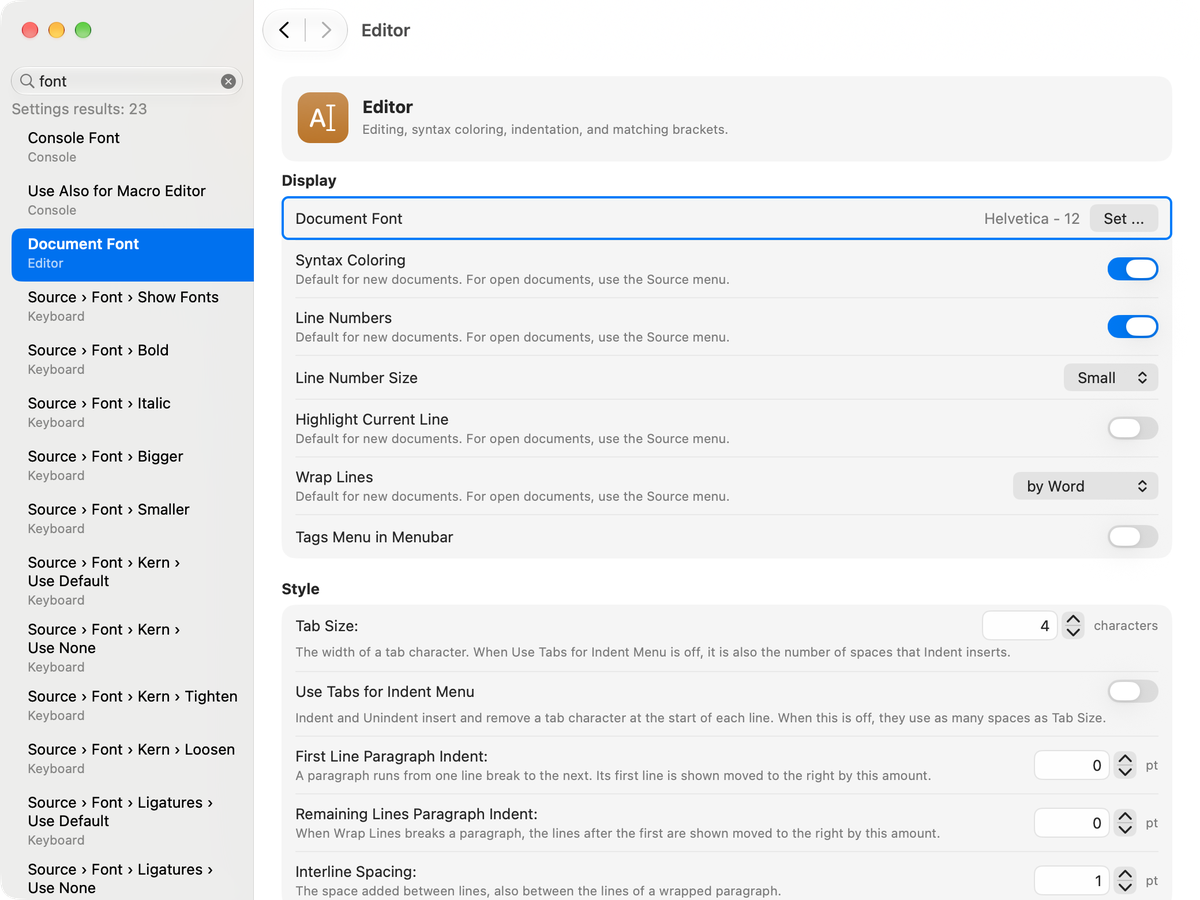
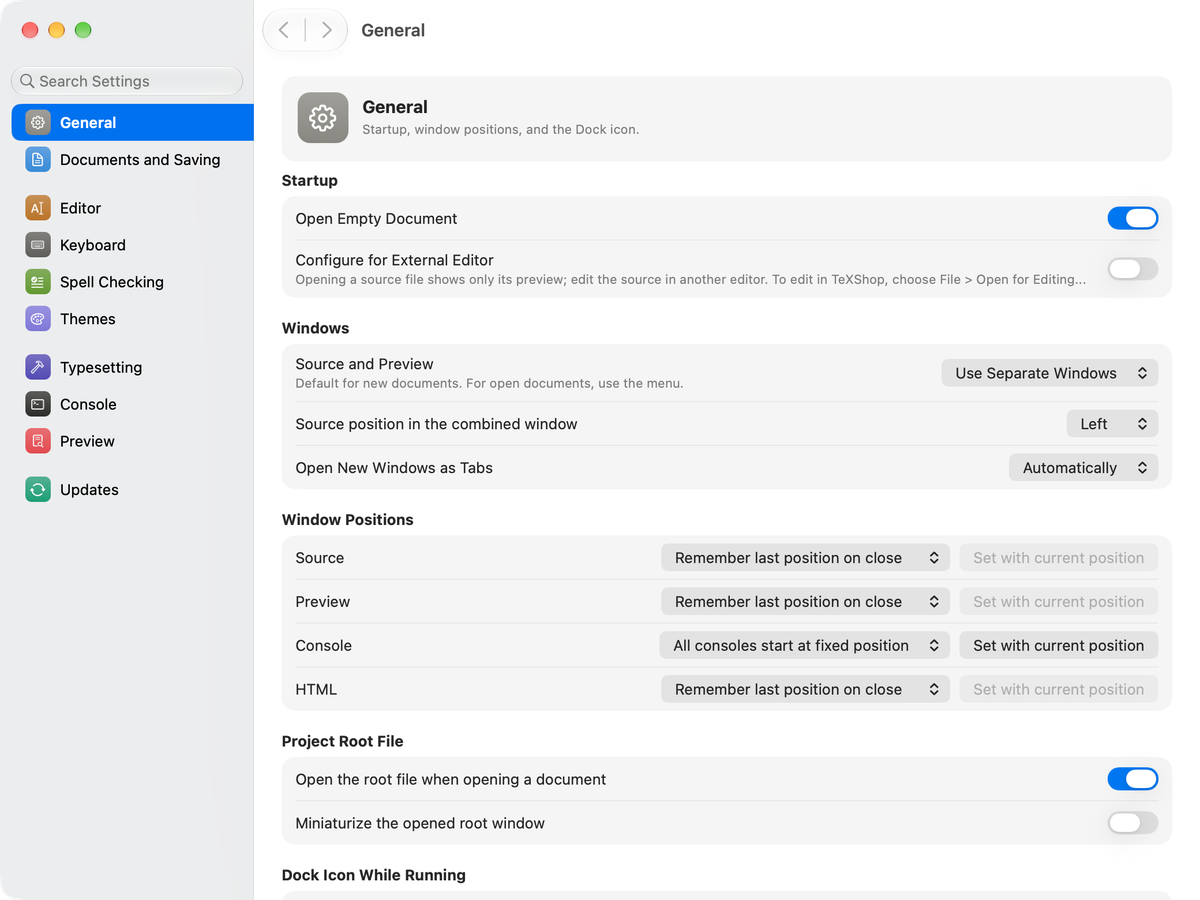
Say in one sentence what each What's New item lets you do and show the General category of Settings

diff --git a/website/whats-new-ja.html b/website/whats-new-ja.html
@@ -9,39 +9,36 @@
 <p class="release-date">TeXShop 6.00（準備中） · <a href="https://github.com/TeXShopProject/TeXShop/releases">最新のベータを試す</a></p>
 <p class="lead">TeXShop 6では、新しく設計し直された設定画面、あらゆるキーバインドのカスタマイズ、LaTeXの構文を考慮するスペルチェック、新しい検索パネルと複数置換、TeXのパスの自動設定、プロファイルによるエンジンの選択、固定できるリンクのポップアップ、本文の統計を備えたステータスバーを加え、分割したプレビューウインドウの動きを改め、アプリのアイコンを新しくしました。</p>
 <section class="feature-list" aria-label="主な変更">
-<article class="feature" id="settings"><div class="feature-text"><h2>新しく設計し直された設定画面</h2><p>設定画面を一から作り直しました。10の分類のサイドバーと、すべての設定を探せる検索欄を備え、分類ごとに名前の付いたグループに整理しました。</p></div><figure><img src="assets/whats-new/ja/settings.png" width="600" height="450" alt="「フォント」で検索した結果を示す設定画面"></figure></article>
-<article class="feature" id="shortcuts"><div class="feature-text"><h2>あらゆるキーバインドをカスタマイズ</h2><p>メニューのショートカットは、Xcodeと同じように「設定」→「キーボード」の一覧の中でキーを押して記録します。機能の名前でもキーでも探せ、ほかで使われているキーは知らせ、1つずつでもまとめてでも元に戻せます。1文字の入力を決まった文字列に置き換えるキーバインドは、同じ所の一覧で編集します。文字列には、選択中の文字列、出力後のカーソル位置、クリップボードの文字列、マークを入れられます。マクロのショートカットも、マクロエディタの一覧の中で同じように記録します。</p></div><figure><img src="assets/whats-new/ja/menu-shortcuts.png" width="600" height="450" alt="「タイプセット」で探したメニューのショートカットの一覧" loading="lazy"><figcaption>メニューのショートカット</figcaption></figure><figure><img src="assets/whats-new/ja/key-bindings.png" width="600" height="450" alt="選択中の文字列や出力後のカーソル位置を入れたキーバインドの一覧" loading="lazy"><figcaption>キーバインド</figcaption></figure><figure><img src="assets/release-notes/ja/macro-editor.png" width="585" height="452" alt="マクロの一覧をサイドバーに置き、プレースホルダを札で示すTeXのマクロと、Commandなしのショートカットを示すマクロエディタ" loading="lazy"><figcaption>マクロエディタ</figcaption></figure></article>
-<article class="feature" id="spell-checking"><div class="feature-text"><h2>LaTeXの構文を考慮するスペルチェック</h2><p>TeXのコマンド、コメント、数式と、ラベル・キー・長さなどの引数を飛ばして検査します。よく使うパッケージの規則を備え、規則は編集できます。「すべて変更」は書類の中の同じ語をまとめて置き換え、1回で取り消せます。</p></div><figure><img src="assets/whats-new/ja/spell.png" width="600" height="530" alt="LaTeXのソースの本文で印の付いた2つの綴りの誤りと、「すべて変更」の欄に候補が入ったスペルのパネル" loading="lazy"></figure></article>
-<article class="feature" id="find-panel"><div class="feature-text"><h2>新しい検索パネル</h2><p>正規表現を使える、新しい検索と置換のパネルです。「すべて検索」はすべての一致を行とともに一覧にし、「すべてハイライト」は本文の中の一致を示します。検索欄と置換欄はソースのフォントの大きさの等幅フォントとソースのテーマで表示し、正規表現の部分ごとに色を分けて、誤りを示します。時間のかかる処理は裏で進み、キャンセルできます。</p></div><figure><img src="assets/whats-new/ja/advanced-find.png" width="600" height="494" alt="正規表現を入れた新しい検索パネルと、すべての一致の一覧、ソースで強調された一致" loading="lazy"></figure></article>
-<article class="feature" id="multiple-replace"><div class="feature-text"><h2>複数置換</h2><p>検索と置換の組を並べた一覧に名前を付けて保存し、上から順にまとめて適用します。正規表現も使え、選択範囲だけにも適用でき、取り消しは1回です。一覧はCotEditorの置換定義と同じJSONで保存し、「編集」→「検索」→「複数置換」から本文全体にすぐ適用できます。Unicode文字とajmacrosの命令を相互に変換する見本の組を同梱しました。</p></div><figure><img src="assets/release-notes/ja/multiple-replace.png" width="600" height="270" alt="検索と置換の組を4つ並べた複数置換の窓" loading="lazy"></figure></article>
-<article class="feature" id="status-bar"><div class="feature-text"><h2>ステータスバーと本文の統計</h2><p>ソースの下のステータスバーに、書類の行数・文字数・単語数と、その横に選択範囲の数、カーソルの行と列、ファイルの大きさを表示します。文字は見たとおりの1文字で数えます。「本文の統計…」を開くと、TeXの命令を除いた本文を、<code>\input</code>・<code>\include</code>で読み込むファイルも含めて、ソースと並べて数えます。保存は要りません。「ソース」→「ステータスバーを表示」でバーを隠せます。</p></div><figure><img src="assets/whats-new/ja/status-bar.png" width="689" height="886" alt="ステータスバーと、ソースと本文の数を並べた「本文の統計」のポップオーバーを示すソースウインドウ" loading="lazy"></figure></article>
-<article class="feature" id="detect-paths"><div class="feature-text"><h2>TeXとGhostscriptのパスを自動で設定</h2><p>初めて起動したとき、TeXShopはTeXとGhostscriptのインストール先を探し、バージョンとともに一覧にします。いちばん新しいものが選ばれ、TeXとGhostscriptのそれぞれでほかのものも選べます。あとからでも、「設定」→「タイプセット」の「パスの自動検出…」で探し直せます。</p></div><figure><img src="assets/release-notes/ja/detect-paths.png" width="600" height="450" alt="見つかったTeXとGhostscriptを並べた「パスの自動検出」のシート" loading="lazy"></figure></article>
-<article class="feature" id="engine-profiles"><div class="feature-text"><h2>プロファイルでエンジンを選ぶ</h2><p>「設定」→「タイプセット」のメニューでエンジンのプロファイルを選ぶと、確認のあと、そのTeXエンジンのタイプセットとkpsewhichのコマンド、BibTeXエンジン、索引作成とMetaPostのコマンド、otfパッケージの<code>\UTF</code> / <code>\CID</code>への自動変換がまとめて設定されます。日本語のプロファイルは、新しい書類のエンコーディングをUTF-8にし、辞書を「言語を自動判別」にし、UTF-8-MACの変換もオンにします。適用する前に、設定される値が一覧になり、変わる値に印が付きます。今の設定を残したい値は外せ、latexmkを使うかどうかも選べます。初めて起動したときにも選べます。ほかの設定は変わりません。</p></div><figure><img src="assets/release-notes/ja/engine-profiles.png" width="600" height="450" alt="エンジンのプロファイルのメニューのある設定の「タイプセット」" loading="lazy"></figure></article>
-<article class="feature" id="link-previews"><div class="feature-text"><h2>固定できるリンクのポップアップ</h2><p>Optionキーで内部リンクのポップアップを固定できます。固定したポップアップは、動かす、大きさを変える、スクロールすることができます。ポップアップは本文の段の幅に合わせ、リンク先のページのラベルを示し、連続表示では次のページへ続けて表示します。</p></div><figure><img src="assets/whats-new/ja/link-preview.png" width="386" height="560" alt="2ページの定理1を示す固定したリンクのポップアップ。右下にページのラベル" loading="lazy"></figure></article>
-<article class="feature" id="split-preview"><div class="feature-text"><h2>分割したプレビューウインドウ</h2><p>境界線をドラッグしても、それぞれの部分の上端の内容は動きません。「ビューを切り替え」は二つの部分をそっくり入れ替え、作業中の部分は細い線で示します。「ウインドウを分割してリンク先を表示」は、リンク先をもう一方の部分に表示します。「内容の幅に合わせる」は、本文がウインドウの幅いっぱいになるように倍率を変えます。</p></div><figure><img src="assets/whats-new/ja/split-preview.png" width="386" height="560" alt="「ウインドウを分割してリンク先を表示」で分割したプレビューウインドウ。作業中の部分に線" loading="lazy"></figure></article>
-<article class="feature" id="line-numbers"><div class="feature-text"><h2>行番号で行を選択</h2><p>行番号をクリックまたはドラッグすると、行全体をまとめて選択できます。ソース、ログ、「実験」のソースで使えます。</p></div></article>
-<article class="feature" id="look"><div class="feature-text"><h2>新しいアイコン</h2><p>macOS 26 Tahoe以降のアイコンのデザインに合わせた、新しいアイコンを搭載しました。ただし、起動中のDockのアイコンは、「設定」→「一般」の「起動中のDockアイコン」で、懐かしのあのデザインに戻せます。2000年から2026年までの4つのデザインから選べ、TeXShopを終了すると新しいアイコンに戻ります。</p></div><figure><img src="assets/whats-new/ja/dock-icons.png" width="600" height="411" alt="設定の「一般」の「起動中のDockアイコン」。2000年から使われてきた4つのデザインと、新しいアイコン" loading="lazy"></figure></article>
+<article class="feature" id="settings"><div class="feature-text"><h2>新しく設計し直された設定画面</h2><p>サイドバーと検索欄を備えた、新しい設定画面になりました。</p></div><figure><img src="assets/whats-new/ja/settings.png" width="600" height="450" alt="分類のサイドバーと「一般」を示す設定画面"></figure></article>
+<article class="feature" id="shortcuts"><div class="feature-text"><h2>あらゆるキーバインドをカスタマイズ</h2><p>メニューとマクロのショートカット、キーバインドを自由にカスタマイズできます。</p></div><figure><img src="assets/whats-new/ja/menu-shortcuts.png" width="600" height="450" alt="「タイプセット」で探したメニューのショートカットの一覧" loading="lazy"><figcaption>メニューのショートカット</figcaption></figure><figure><img src="assets/whats-new/ja/key-bindings.png" width="600" height="450" alt="選択中の文字列や出力後のカーソル位置を入れたキーバインドの一覧" loading="lazy"><figcaption>キーバインド</figcaption></figure><figure><img src="assets/release-notes/ja/macro-editor.png" width="585" height="452" alt="マクロの一覧をサイドバーに置き、プレースホルダを札で示すTeXのマクロと、Commandなしのショートカットを示すマクロエディタ" loading="lazy"><figcaption>マクロエディタ</figcaption></figure></article>
+<article class="feature" id="spell-checking"><div class="feature-text"><h2>LaTeXの構文を考慮するスペルチェック</h2><p>TeXの命令や数式、コメントを飛ばして、本文だけをスペルチェックできます。</p></div><figure><img src="assets/whats-new/ja/spell.png" width="600" height="530" alt="LaTeXのソースの本文で印の付いた2つの綴りの誤りと、「すべて変更」の欄に候補が入ったスペルのパネル" loading="lazy"></figure></article>
+<article class="feature" id="find-panel"><div class="feature-text"><h2>新しい検索パネル</h2><p>正規表現を使える新しい検索パネルで、すべての一致を一覧にしたり、ハイライトしたりできます。</p></div><figure><img src="assets/whats-new/ja/advanced-find.png" width="600" height="494" alt="正規表現を入れた新しい検索パネルと、すべての一致の一覧、ソースで強調された一致" loading="lazy"></figure></article>
+<article class="feature" id="multiple-replace"><div class="feature-text"><h2>複数置換</h2><p>検索と置換の組をいくつも登録して、まとめて置換できます。</p></div><figure><img src="assets/release-notes/ja/multiple-replace.png" width="600" height="270" alt="検索と置換の組を4つ並べた複数置換の窓" loading="lazy"></figure></article>
+<article class="feature" id="status-bar"><div class="feature-text"><h2>ステータスバーと本文の統計</h2><p>ソースの下に行数・文字数・単語数を表示し、TeXの命令を除いた本文の文字数も数えられます。</p></div><figure><img src="assets/whats-new/ja/status-bar.png" width="689" height="886" alt="ステータスバーと、ソースと本文の数を並べた「本文の統計」のポップオーバーを示すソースウインドウ" loading="lazy"></figure></article>
+<article class="feature" id="detect-paths"><div class="feature-text"><h2>TeXとGhostscriptのパスを自動で設定</h2><p>TeXとGhostscriptのインストール先を自動で見つけて設定します。</p></div><figure><img src="assets/release-notes/ja/detect-paths.png" width="600" height="450" alt="見つかったTeXとGhostscriptを並べた「パスの自動検出」のシート" loading="lazy"></figure></article>
+<article class="feature" id="engine-profiles"><div class="feature-text"><h2>プロファイルでエンジンを選ぶ</h2><p>エンジンのプロファイルを選ぶだけで、そのTeXエンジンに合ったタイプセットの設定がまとめて済みます。</p></div><figure><img src="assets/release-notes/ja/engine-profiles.png" width="600" height="450" alt="エンジンのプロファイルのメニューのある設定の「タイプセット」" loading="lazy"></figure></article>
+<article class="feature" id="link-previews"><div class="feature-text"><h2>固定できるリンクのポップアップ</h2><p>Optionキーでリンク先のポップアップを固定できます。</p></div><figure><img src="assets/whats-new/ja/link-preview.png" width="386" height="560" alt="2ページの定理1を示す固定したリンクのポップアップ。右下にページのラベル" loading="lazy"></figure></article>
+<article class="feature" id="split-preview"><div class="feature-text"><h2>分割したプレビューウインドウ</h2><p>分割したプレビューウインドウで、リンク先をもう一方に表示したり、二つの部分を入れ替えたりできます。</p></div><figure><img src="assets/whats-new/ja/split-preview.png" width="386" height="560" alt="「ウインドウを分割してリンク先を表示」で分割したプレビューウインドウ。作業中の部分に線" loading="lazy"></figure></article>
+<article class="feature" id="line-numbers"><div class="feature-text"><h2>行番号で行を選択</h2><p>行番号をクリックまたはドラッグして、行をまとめて選択できます。</p></div></article>
+<article class="feature" id="look"><div class="feature-text"><h2>新しいアイコン</h2><p>macOS 26 Tahoe以降のデザインに合わせた、新しいアイコンを搭載しました。さらに、起動中のDockのアイコンは、「設定」→「一般」で懐かしのデザインに戻せます。</p></div><figure><img src="assets/whats-new/ja/dock-icons.png" width="600" height="411" alt="設定の「一般」の「起動中のDockアイコン」。2000年から使われてきた4つのデザインと、新しいアイコン" loading="lazy"></figure></article>
 </section>
 <h2>そのほかの変更</h2>
 <ul>
-<li>「中止」を押したときと、次のタイプセットを始めたときに、TeXとその子プロセスを止めます。</li>
-<li>Command＋0で書類のコンソールを表示し、もう一度押すと元の窓に戻ります。</li>
+<li>Command＋0で、書類のコンソールと元の窓を切り替えられます。</li>
 <li>編集メニューに「文字種一括変換」「Unicode 正規化」「交換ペースト」を加えました。</li>
-<li>文字コードのマジックコメントがないファイルも、開くときに文字コードを判定します。</li>
-<li>「実験」のタイプセットは専用のコンソールで動き、書類の画像や参照を見つけ、ソースを書類と同じように表示します。</li>
-<li>OneDriveやGoogle Driveなどで同期しているフォルダのファイルを編集しても、カーソルがファイルの末尾へ飛ばなくなりました。</li>
-<li>プレビューは、再読み込みのあとも、macOS 27でも、表示位置を保ちます。</li>
+<li>ソースコードの文字コード自動判定機能を搭載しました。</li>
+<li>「実験」で、書類の画像や参照を使ってタイプセットできます。</li>
 </ul>
 <h2>以前の版から変わった動き</h2>
 <ul>
-<li>LaTeXの構文を考慮するスペルチェックが初めから有効です。以前のように検査するには、「設定」→「スペルチェック」で「従来の方式」を選びます。</li>
-<li>TeXShop 6を初めて起動したとき、すべての利用者が一度だけ新しい検索パネル（詳細検索パネル）に切り替わります。元に戻すには、「設定」→「エディタ」の「検索パネル」でほかの方式を選びます。</li>
-<li>「設定プロファイル」を、「設定」→「タイプセット」の「エンジンのプロファイル」に置き換えました。プロファイルはタイプセットの方法を設定し、ほかの設定は変えません。</li>
-<li>「設定」→「タイプセット」の「デフォルトのコマンド」を「新しい書類のタイプセット」に、「利用するコマンド」をエンジンファイルを選ぶ「エンジンファイル」のメニューにしました。最初に選ばれるエンジンファイルはXeLaTeXからLuaLaTeXになりました。</li>
-<li>単ページ・見開き表示では、上下矢印キーは拡大したページの中をスクロールします。ページを送るには、Command＋右／左矢印、Page Up／Page Down、スペースキーを使います。</li>
-<li>一部のメニュー名が変わったため、macOSの「システム設定」で登録したTeXShop用のショートカットが効かなくなることがあります。「設定」→「キーボード」で設定し直してください。</li>
-<li>「編集」→「統計情報…」は、別の窓ではなく、ステータスバーの「本文の統計」を開きます。</li>
-<li>マークの操作は「編集」→「マーク」に、「スタイルファイルを開く」は「ファイル」メニューに移りました。Apple Distillerは取り除き、PostScriptはGhostscriptで変換します。</li>
+<li>LaTeXの構文を考慮するスペルチェックが初めから有効です。「設定」→「スペルチェック」で従来の方式に戻せます。</li>
+<li>検索パネルは新しい検索パネルになります。「設定」→「エディタ」で元に戻せます。</li>
+<li>「設定プロファイル」は、「設定」→「タイプセット」の「エンジンのプロファイル」に置き換わりました。</li>
+<li>「デフォルトのコマンド」は「新しい書類のタイプセット」に、「利用するコマンド」は「エンジンファイル」になりました。</li>
+<li>単ページ・見開き表示では、上下矢印キーでページを送らず、ページの中をスクロールします。</li>
+<li>macOSの「システム設定」で登録したTeXShopのショートカットは、「設定」→「キーボード」で設定し直してください。</li>
+<li>「編集」→「統計情報…」は、ステータスバーの「本文の統計」を開きます。</li>
+<li>マークの操作は「編集」→「マーク」に、「スタイルファイルを開く」は「ファイル」メニューに移りました。Apple Distillerは取り除きました。</li>
 </ul>
 <p class="all-changes"><a href="release-notes-ja.html#v6.00">すべての変更点と、以前の動きに戻す方法は、変更履歴にあります</a></p>
 </main>

diff --git a/website/whats-new.html b/website/whats-new.html
@@ -9,39 +9,36 @@
 <p class="release-date">TeXShop 6.00 — In preparation · <a href="https://github.com/TeXShopProject/TeXShop/releases">Try the latest beta</a></p>
 <p class="lead">TeXShop 6 adds a redesigned Settings window, customizable shortcuts and key bindings, LaTeX-aware spell checking, a new Find panel with Multiple Replace, automatic TeX paths, engine profiles, pinned link previews and a status bar with text statistics, changes how a split Preview window behaves, and has a new app icon.</p>
 <section class="feature-list" aria-label="Main changes">
-<article class="feature" id="settings"><div class="feature-text"><h2>A redesigned Settings window</h2><p>Settings has been rebuilt from the ground up. A sidebar with ten categories and a search field that finds every setting, with each category organized into named groups.</p></div><figure><img src="assets/whats-new/en/settings.png" width="600" height="450" alt="The Settings window with the results of a search for font"></figure></article>
-<article class="feature" id="shortcuts"><div class="feature-text"><h2>Customize every shortcut and key binding</h2><p>Menu shortcuts are recorded right in the list of Settings → Keyboard, as in Xcode, by pressing the keys. Commands can be found by name or by key, keys already in use are reported, and one or all shortcuts can be restored. Key bindings, which replace a typed character with a set text, are edited in a list there; the text can hold the selected text, the insertion point, the clipboard text and marks. Macro shortcuts are recorded the same way in the list of the Macro Editor.</p></div><figure><img src="assets/whats-new/en/menu-shortcuts.png" width="600" height="450" alt="The list of menu shortcuts found with Typeset" loading="lazy"><figcaption>Menu shortcuts</figcaption></figure><figure><img src="assets/whats-new/en/key-bindings.png" width="600" height="450" alt="The list of key bindings whose text holds the selected text and the insertion point" loading="lazy"><figcaption>Key bindings</figcaption></figure><figure><img src="assets/release-notes/en/macro-editor.png" width="585" height="452" alt="The Macro Editor with its macros listed in a sidebar, a TeX macro whose placeholders are tokens, and a shortcut without Command" loading="lazy"><figcaption>Macro Editor</figcaption></figure></article>
-<article class="feature" id="spell-checking"><div class="feature-text"><h2>LaTeX-aware spell checking</h2><p>Spell checking skips TeX commands, comments, mathematics, and arguments such as labels, keys and lengths. Rules for common packages are included and can be edited. Change All replaces a word throughout the document with a single undo.</p></div><figure><img src="assets/whats-new/en/spell.png" width="600" height="521" alt="Two misspelled words marked in the prose of a LaTeX source, and the spelling panel with a suggestion in the Change All field" loading="lazy"></figure></article>
-<article class="feature" id="find-panel"><div class="feature-text"><h2>New Find panel</h2><p>A new find and replace panel with regular expressions. Find All lists every match with its line, and Highlight All marks the matches in the text. The find and replace fields use a monospaced font at the size of the source font and the theme of the source, color the parts of a regular expression and mark errors. Long operations run in the background and can be canceled.</p></div><figure><img src="assets/whats-new/en/advanced-find.png" width="600" height="494" alt="The new Find panel with a regular expression and the list of all matches, and the matches highlighted in the source" loading="lazy"></figure></article>
-<article class="feature" id="multiple-replace"><div class="feature-text"><h2>Multiple Replace</h2><p>Save a named list of find and replace pairs and apply them in order from the top, with regular expressions, in the whole text or only in the selection, and with a single undo. The lists are saved as JSON in the format of CotEditor’s replacement definitions, and Edit → Find → Multiple Replace applies one to the whole text at once. Two sample sets convert between Unicode characters and ajmacros commands.</p></div><figure><img src="assets/release-notes/en/multiple-replace.png" width="600" height="270" alt="The Multiple Replace window with a set of four find and replace pairs" loading="lazy"></figure></article>
-<article class="feature" id="status-bar"><div class="feature-text"><h2>Status bar and text statistics</h2><p>A status bar under the source shows the lines, characters and words of the document, and of the selection beside them, the line and column of the insertion point, and the file size. Characters are counted as they are seen. Text Statistics… counts the text without TeX commands, also in files read with <code>\input</code> and <code>\include</code>, beside the counts of the source, without saving. Source → Show Status Bar hides the bar.</p></div><figure><img src="assets/whats-new/en/status-bar.png" width="677" height="850" alt="A source window with the status bar and the Text Statistics popover comparing the source and the text" loading="lazy"></figure></article>
-<article class="feature" id="detect-paths"><div class="feature-text"><h2>TeX and Ghostscript paths set automatically</h2><p>When TeXShop is first used, it looks for TeX and Ghostscript installations and lists them with their versions. The newest is selected, and another can be chosen for TeX and for Ghostscript separately. Detect Paths… in Settings → Typesetting looks again at any time.</p></div><figure><img src="assets/release-notes/en/detect-paths.png" width="600" height="450" alt="The Detect Paths sheet listing the TeX and Ghostscript installations found" loading="lazy"></figure></article>
-<article class="feature" id="engine-profiles"><div class="feature-text"><h2>Choose the engine with a profile</h2><p>Choose an engine profile from the menu in Settings → Typesetting and confirm: it sets the typesetting commands for that TeX engine, the kpsewhich command, the BibTeX engine, the index program, MetaPost and conversion to otf package <code>\UTF</code> / <code>\CID</code> at once. The Japanese profiles also set UTF-8 as the encoding for new documents, set the spelling dictionary to automatic language detection and turn on UTF-8-MAC conversion. Before it is applied, the profile lists the values it sets and marks those that change; you can leave out any value you want to keep, and choose whether to use latexmk. A profile can also be chosen at first launch. Other settings stay as they are.</p></div><figure><img src="assets/release-notes/en/engine-profiles.png" width="600" height="450" alt="The Typesetting category of Settings with the engine profile menu" loading="lazy"></figure></article>
-<article class="feature" id="link-previews"><div class="feature-text"><h2>Pinned link previews</h2><p>Option pins the preview of an internal link. A pinned preview can be moved, resized and scrolled. Previews are sized to the text column, show the label of the linked page, and in the continuous display formats continue on the next page.</p></div><figure><img src="assets/whats-new/en/link-preview.png" width="386" height="560" alt="A pinned link preview showing Theorem 1 from page 2, with the page label in its lower right corner" loading="lazy"></figure></article>
-<article class="feature" id="split-preview"><div class="feature-text"><h2>Split Preview window</h2><p>Dragging the divider keeps the text at the top of each part in place. Switch Views exchanges the two parts completely, and a thin line marks the active part. Split Window with Link shows a link’s target in the other part. Zoom to Content Width sets the magnification so that the text fills the width of the window.</p></div><figure><img src="assets/whats-new/en/split-preview.png" width="386" height="560" alt="A Preview window split by Split Window with Link, with a line along the active part" loading="lazy"></figure></article>
-<article class="feature" id="line-numbers"><div class="feature-text"><h2>Select lines by their numbers</h2><p>Click or drag over the line numbers to select whole lines, in the source, the log and the Experiment source.</p></div></article>
-<article class="feature" id="look"><div class="feature-text"><h2>New app icon</h2><p>A new app icon made for the design of macOS 26 Tahoe and later. While TeXShop is running, though, its Dock icon can go back to one of the familiar designs of the past: choose it under Dock Icon While Running in Settings → General, from four designs used since 2000. When TeXShop quits, the Dock shows the new icon again.</p></div><figure><img src="assets/whats-new/en/dock-icons.png" width="600" height="450" alt="Dock Icon While Running in the General category of Settings: four designs used since 2000 and the new icon" loading="lazy"></figure></article>
+<article class="feature" id="settings"><div class="feature-text"><h2>A redesigned Settings window</h2><p>A new Settings window with a sidebar and a search field.</p></div><figure><img src="assets/whats-new/en/settings.png" width="600" height="450" alt="The Settings window with its sidebar of categories and the General category"></figure></article>
+<article class="feature" id="shortcuts"><div class="feature-text"><h2>Customize every shortcut and key binding</h2><p>Customize every menu and macro shortcut, and key bindings.</p></div><figure><img src="assets/whats-new/en/menu-shortcuts.png" width="600" height="450" alt="The list of menu shortcuts found with Typeset" loading="lazy"><figcaption>Menu shortcuts</figcaption></figure><figure><img src="assets/whats-new/en/key-bindings.png" width="600" height="450" alt="The list of key bindings whose text holds the selected text and the insertion point" loading="lazy"><figcaption>Key bindings</figcaption></figure><figure><img src="assets/release-notes/en/macro-editor.png" width="585" height="452" alt="The Macro Editor with its macros listed in a sidebar, a TeX macro whose placeholders are tokens, and a shortcut without Command" loading="lazy"><figcaption>Macro Editor</figcaption></figure></article>
+<article class="feature" id="spell-checking"><div class="feature-text"><h2>LaTeX-aware spell checking</h2><p>Check the spelling of the text alone, skipping TeX commands, mathematics and comments.</p></div><figure><img src="assets/whats-new/en/spell.png" width="600" height="521" alt="Two misspelled words marked in the prose of a LaTeX source, and the spelling panel with a suggestion in the Change All field" loading="lazy"></figure></article>
+<article class="feature" id="find-panel"><div class="feature-text"><h2>New Find panel</h2><p>A new Find panel with regular expressions lists or highlights every match.</p></div><figure><img src="assets/whats-new/en/advanced-find.png" width="600" height="494" alt="The new Find panel with a regular expression and the list of all matches, and the matches highlighted in the source" loading="lazy"></figure></article>
+<article class="feature" id="multiple-replace"><div class="feature-text"><h2>Multiple Replace</h2><p>Save sets of find and replace pairs and apply them all at once.</p></div><figure><img src="assets/release-notes/en/multiple-replace.png" width="600" height="270" alt="The Multiple Replace window with a set of four find and replace pairs" loading="lazy"></figure></article>
+<article class="feature" id="status-bar"><div class="feature-text"><h2>Status bar and text statistics</h2><p>A status bar under the source shows the lines, characters and words, and Text Statistics counts the text without TeX commands.</p></div><figure><img src="assets/whats-new/en/status-bar.png" width="677" height="850" alt="A source window with the status bar and the Text Statistics popover comparing the source and the text" loading="lazy"></figure></article>
+<article class="feature" id="detect-paths"><div class="feature-text"><h2>TeX and Ghostscript paths set automatically</h2><p>TeXShop finds the TeX and Ghostscript installations and sets their paths by itself.</p></div><figure><img src="assets/release-notes/en/detect-paths.png" width="600" height="450" alt="The Detect Paths sheet listing the TeX and Ghostscript installations found" loading="lazy"></figure></article>
+<article class="feature" id="engine-profiles"><div class="feature-text"><h2>Choose the engine with a profile</h2><p>Choose an engine profile to set up typesetting for that TeX engine in one step.</p></div><figure><img src="assets/release-notes/en/engine-profiles.png" width="600" height="450" alt="The Typesetting category of Settings with the engine profile menu" loading="lazy"></figure></article>
+<article class="feature" id="link-previews"><div class="feature-text"><h2>Pinned link previews</h2><p>Pin a link preview with the Option key.</p></div><figure><img src="assets/whats-new/en/link-preview.png" width="386" height="560" alt="A pinned link preview showing Theorem 1 from page 2, with the page label in its lower right corner" loading="lazy"></figure></article>
+<article class="feature" id="split-preview"><div class="feature-text"><h2>Split Preview window</h2><p>In a split Preview window, show a link’s target in the other part or switch the two parts.</p></div><figure><img src="assets/whats-new/en/split-preview.png" width="386" height="560" alt="A Preview window split by Split Window with Link, with a line along the active part" loading="lazy"></figure></article>
+<article class="feature" id="line-numbers"><div class="feature-text"><h2>Select lines by their numbers</h2><p>Click or drag over the line numbers to select whole lines.</p></div></article>
+<article class="feature" id="look"><div class="feature-text"><h2>New app icon</h2><p>A new app icon made for the design of macOS 26 Tahoe and later. Moreover, the Dock icon can go back to the familiar designs of the past while TeXShop is running, in Settings → General.</p></div><figure><img src="assets/whats-new/en/dock-icons.png" width="600" height="450" alt="Dock Icon While Running in the General category of Settings: four designs used since 2000 and the new icon" loading="lazy"></figure></article>
 </section>
 <h2>Other changes</h2>
 <ul>
-<li>Stop, and starting another typesetting job, end TeX and its child processes.</li>
-<li>Command-0 shows the document’s console; pressing it again returns to the window that opened it.</li>
+<li>Command-0 switches between the document’s console and its window.</li>
 <li>The Edit menu has Character Type Conversion, Unicode Normalization and Swap with Clipboard.</li>
-<li>The encoding of a file without an encoding magic comment is detected when it is opened.</li>
-<li>Experiment typesetting runs in its own console, finds the document’s pictures and references, and shows the source as the document does.</li>
-<li>Editing a file in a folder synced by OneDrive, Google Drive or a similar service no longer moves the cursor to the end of the file.</li>
-<li>The preview keeps its position after a reload, also on macOS 27.</li>
+<li>The encoding of a source file is detected automatically.</li>
+<li>Experiment typesets with the document’s pictures and references.</li>
 </ul>
 <h2>Changes in behavior from earlier versions</h2>
 <ul>
-<li>LaTeX-aware spell checking is on by default. To check spelling as before, choose “Legacy method” in Settings → Spell Checking.</li>
-<li>At the first launch of TeXShop 6, every user is switched once to the new Find panel (Advanced Find panel). To go back, choose another method in Settings → Editor → Find Panel.</li>
-<li>Settings profiles are replaced by engine profiles in Settings → Typesetting. A profile sets how documents are typeset; other settings stay as they are.</li>
-<li>In Settings → Typesetting, Default Command is now Typeset New Documents With, and Command to use is now Engine File, a menu of the engine files. The engine file chosen at first is LuaLaTeX instead of XeLaTeX.</li>
-<li>In single-page and two-page layouts, the Up and Down Arrow keys scroll within an enlarged page. Command-Right/Left Arrow, Page Up/Page Down and Space change pages.</li>
-<li>Menu shortcuts assigned to TeXShop in macOS System Settings may stop working because some menu items were renamed. Assign them in Settings → Keyboard instead.</li>
-<li>Edit → Statistics… opens Text Statistics in the status bar instead of a separate window.</li>
-<li>Marks are in Edit → Marks, and Open Style File is in the File menu. Apple Distiller is removed; PostScript is converted with Ghostscript.</li>
+<li>LaTeX-aware spell checking is on by default. The legacy method is in Settings → Spell Checking.</li>
+<li>The new Find panel is used by default. The earlier one can be chosen in Settings → Editor.</li>
+<li>Settings profiles are replaced by engine profiles in Settings → Typesetting.</li>
+<li>Default Command is now Typeset New Documents With, and Command to use is now Engine File.</li>
+<li>In single-page and two-page layouts, the Up and Down Arrow keys scroll within the page instead of changing pages.</li>
+<li>Shortcuts for TeXShop made in macOS System Settings may need to be set again in Settings → Keyboard.</li>
+<li>Edit → Statistics… opens Text Statistics in the status bar.</li>
+<li>Marks are in Edit → Marks, and Open Style File is in the File menu. Apple Distiller is removed.</li>
 </ul>
 <p class="all-changes"><a href="release-notes.html#v6.00">All changes, and how to get the earlier behavior back, are in the release notes</a></p>
 </main>

diff --git a/website/release-notes-ja.html b/website/release-notes-ja.html
@@ -106,7 +106,7 @@
 </ul>
 <h3>設定画面</h3>
 <ul>
-<li>設定画面を、「一般」「書類と保存」「エディタ」「キーボード」「スペルチェック」「テーマ」「タイプセット」「コンソール」「プレビュー」「アップデート」の10分類のサイドバーで構成しました。<figure class="note-shot"><img src="assets/whats-new/ja/settings.png" width="600" height="450" alt="「フォント」で検索した結果を示す設定画面" loading="lazy"></figure></li>
+<li>設定画面を、「一般」「書類と保存」「エディタ」「キーボード」「スペルチェック」「テーマ」「タイプセット」「コンソール」「プレビュー」「アップデート」の10分類のサイドバーで構成しました。<figure class="note-shot"><img src="assets/whats-new/ja/settings.png" width="600" height="450" alt="分類のサイドバーと「一般」を示す設定画面" loading="lazy"></figure></li>
 <li>「設定を検索」で、設定の項目を探して表示できます。</li>
 <li>初めて起動したときと、「設定」→「タイプセット」の「パスの自動検出…」で、TeXとGhostscriptのインストール先を探し、バージョンとともに一覧から選べるようにしました。<figure class="note-shot"><img src="assets/release-notes/ja/detect-paths.png" width="600" height="450" alt="見つかったTeXとGhostscriptを並べた「パスの自動検出」のシート" loading="lazy"></figure></li>
 <li>「MakeIndex」と「MetaPost」のコマンドを「設定」→「タイプセット」→「周辺ツール」で設定できるようにしました。エンジンのプロファイルもこれらを設定し、日本語のプロファイルでは日本語用のプログラムになります。<figure class="note-shot"><img src="assets/release-notes/ja/related-tools.png" width="600" height="450" alt="索引作成とMetaPostのある設定の「タイプセット」の「周辺ツール」" loading="lazy"></figure></li>

diff --git a/website/release-notes.html b/website/release-notes.html
@@ -86,7 +86,7 @@
 </ul>
 <h3>Settings window</h3>
 <ul>
-<li>Settings has a sidebar with ten categories: General, Documents and Saving, Editor, Keyboard, Spell Checking, Themes, Typesetting, Console, Preview, and Updates.<figure class="note-shot"><img src="assets/whats-new/en/settings.png" width="600" height="450" alt="The Settings window with the results of a search for font" loading="lazy"></figure></li>
+<li>Settings has a sidebar with ten categories: General, Documents and Saving, Editor, Keyboard, Spell Checking, Themes, Typesetting, Console, Preview, and Updates.<figure class="note-shot"><img src="assets/whats-new/en/settings.png" width="600" height="450" alt="The Settings window with its sidebar of categories and the General category" loading="lazy"></figure></li>
 <li>Search Settings finds a setting and shows it.</li>
 <li>TeXShop finds the TeX and Ghostscript installations, at first launch and with Detect Paths… under Settings → Typesetting, and lists them with their versions to choose from.<figure class="note-shot"><img src="assets/release-notes/en/detect-paths.png" width="600" height="450" alt="The Detect Paths sheet listing the TeX and Ghostscript installations found" loading="lazy"></figure></li>
 <li>The commands of MakeIndex and MetaPost can be set in Settings → Typesetting → Related Tools, and the engine profiles set them too, with the Japanese programs for the Japanese profiles.<figure class="note-shot"><img src="assets/release-notes/en/related-tools.png" width="600" height="450" alt="The Related Tools group of the Typesetting category of Settings with the index program and MetaPost" loading="lazy"></figure></li>
